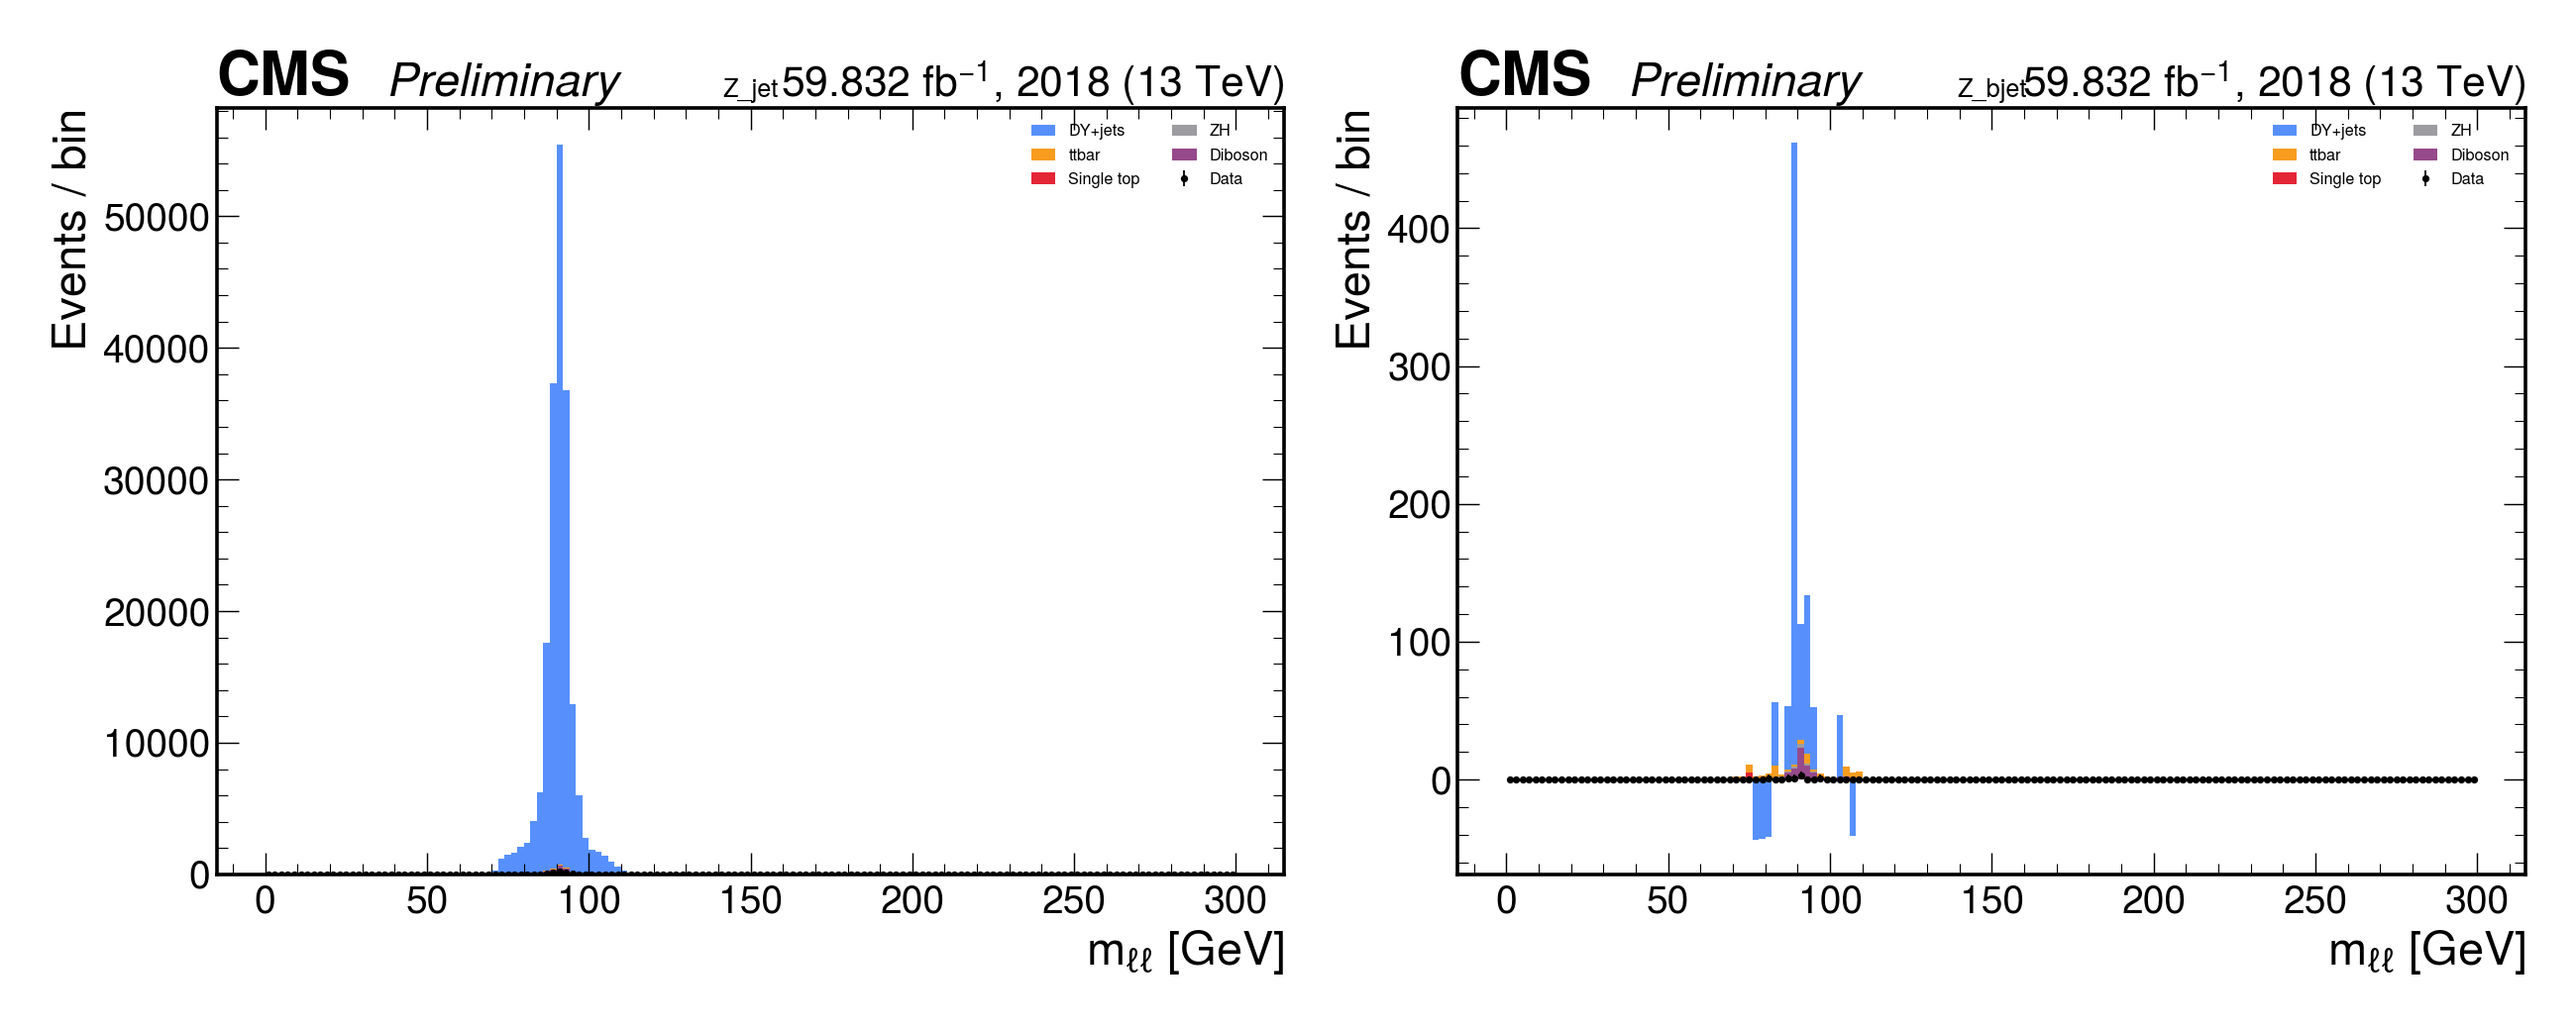
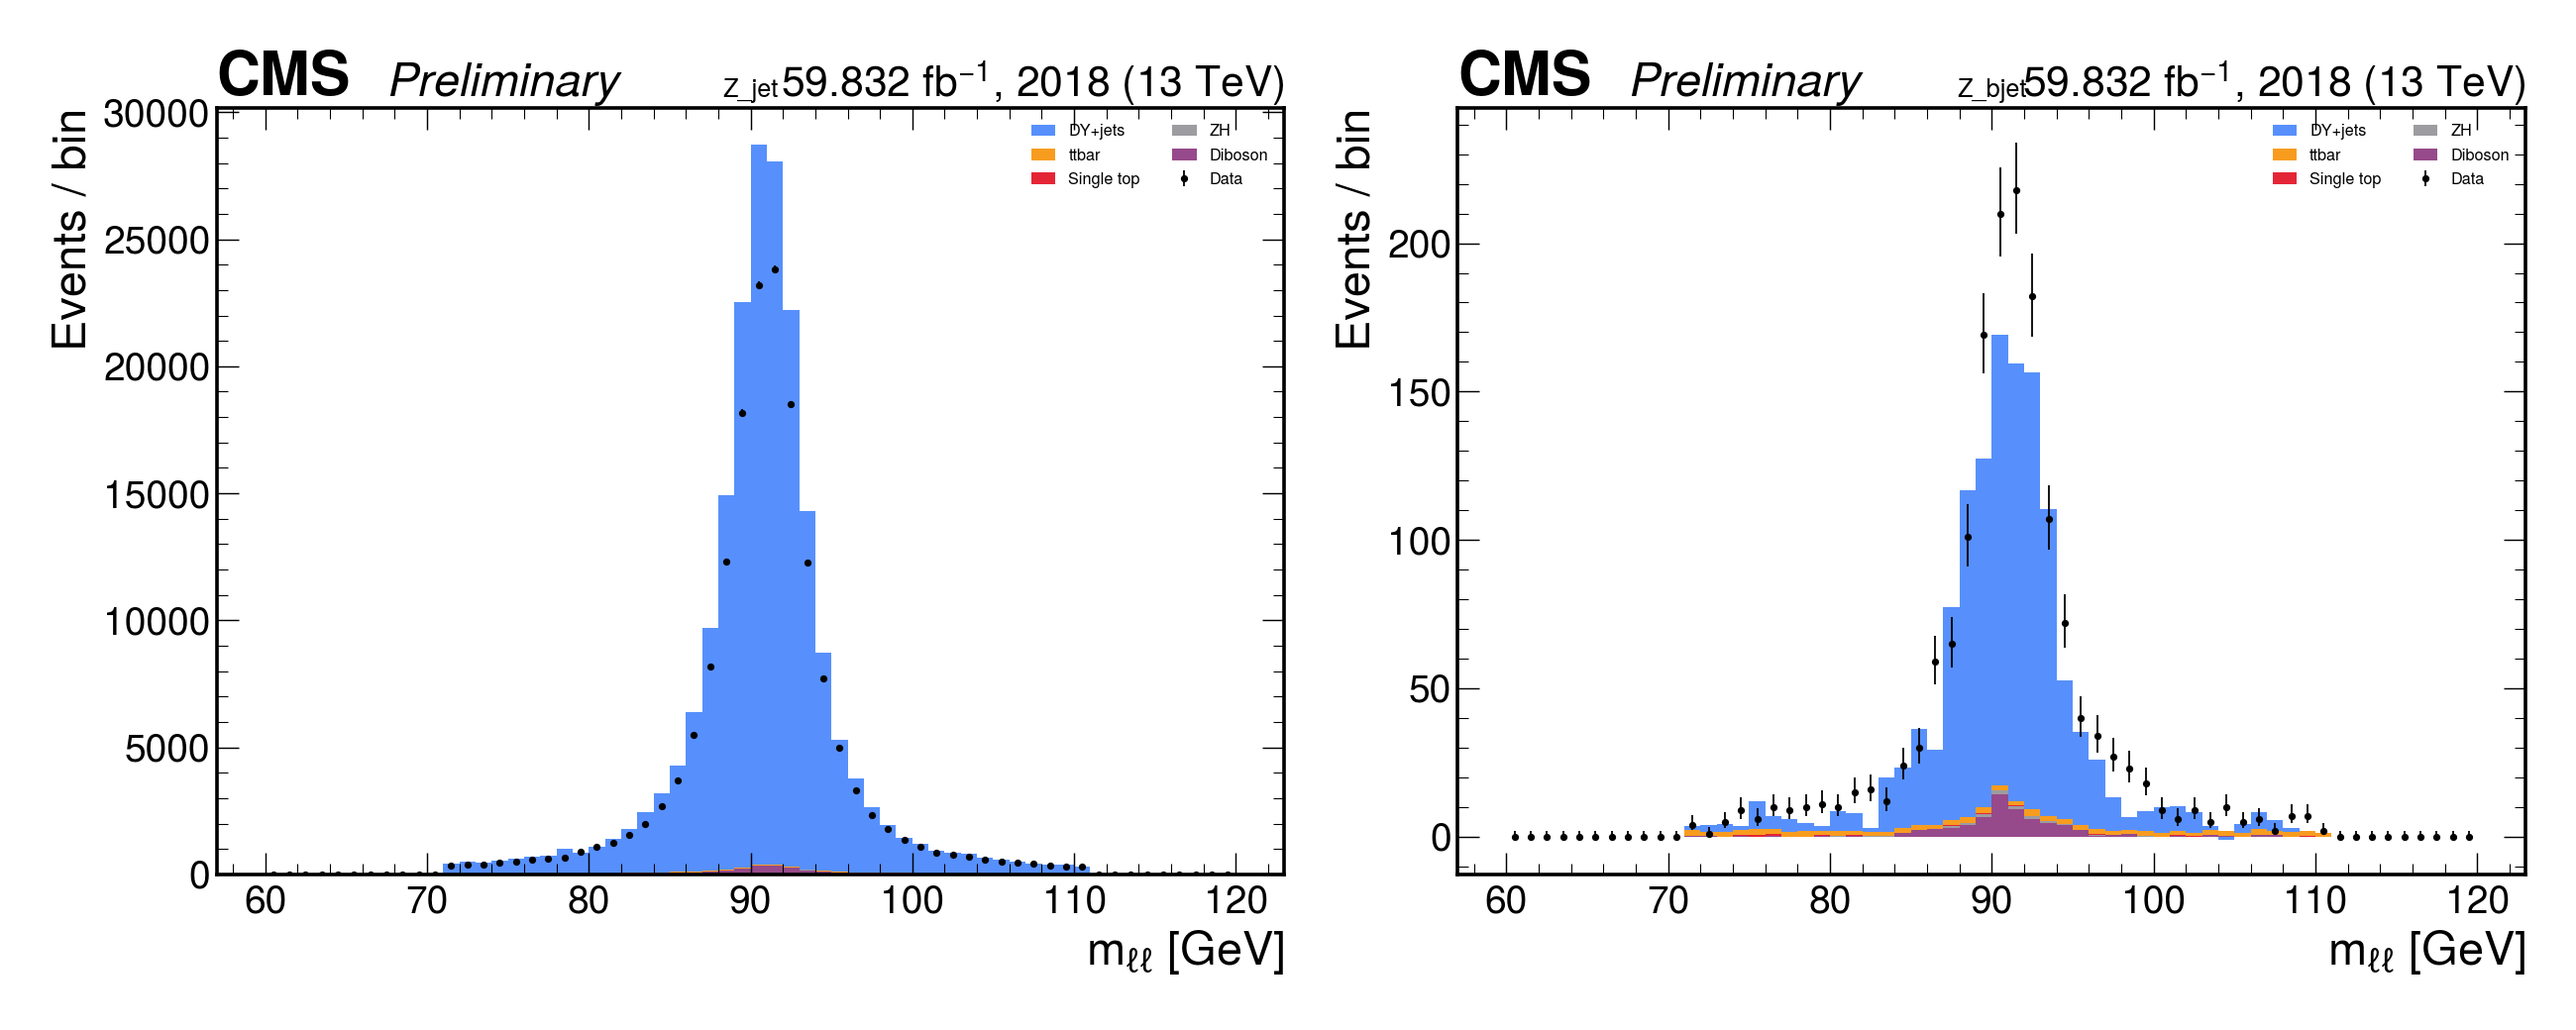
Split QCD_sf full-scale run into per-dataset condor jobs, complete all 16
Restructured the 16-dataset LPC condor run from one combined job into
independent per-dataset jobs (via runner.py's existing --only flag) so a
single dataset's failure can't take down the rest, per Hsin-Wei's
suggestion. Added submit_qcd_sf_per_dataset.sh (sequential per-dataset
submission wrapper) and merge_qcd_sf_outputs.py (combines the per-dataset
.coffea outputs into the single file plot_stack_sample.py expects).

13/14 remaining datasets succeeded on the first pass; DYJetsToLL_0J,
DYJetsToLL_1J, and TTToSemiLeptonic hit the same dask/lpcjobqueue
deadlock seen before (now confirmed to recur even at single-dataset
scale) but were cleanly isolated and retried without affecting the other
jobs. All 16 datasets now complete and merged; regenerated stacked plots
confirm physically sane behavior at full statistics.

diff --git a/merge_qcd_sf_outputs.py b/merge_qcd_sf_outputs.py
@@ -1,0 +1,53 @@
+"""Merge per-dataset QCD_sf .coffea outputs into one combined file.
+
+Each `runner.py --only <dataset>` run writes a `{dataset: {histograms...}}`
+dict to its own file. Since no dataset key appears in more than one file,
+combining is a plain dict union -- no bin-level histogram addition needed.
+"""
+import argparse
+import glob
+
+from coffea.util import load, save
+
+DEFAULT_PATTERNS = [
+    "hists_QCD_sf_QCD_sf_run2018_all/hists_QCD_sf_QCD_sf_run2018_all_*.coffea",
+    "hists_DY2J_condor_rebin/hists_QCD_sf_QCD_sf_run2018_DY2J/hists_QCD_sf_QCD_sf_run2018_DY2J.coffea",
+]
+DEFAULT_OUTPUT = "hists_QCD_sf_QCD_sf_run2018_all/hists_QCD_sf_QCD_sf_run2018_all.coffea"
+
+if __name__ == "__main__":
+    parser = argparse.ArgumentParser(description=__doc__)
+    parser.add_argument("--output", default=DEFAULT_OUTPUT)
+    parser.add_argument(
+        "--pattern",
+        action="append",
+        default=None,
+        help="Glob pattern for input .coffea files; may be given multiple times. "
+        "Defaults to the per-dataset split outputs plus the DY2J validation output.",
+    )
+    args = parser.parse_args()
+    patterns = args.pattern or DEFAULT_PATTERNS
+
+    files = []
+    for pattern in patterns:
+        files.extend(sorted(glob.glob(pattern)))
+    if not files:
+        raise SystemExit(f"No input files matched patterns: {patterns}")
+
+    merged = {}
+    for f in files:
+        out = load(f)
+        overlap = set(out) & set(merged)
+        if overlap:
+            raise SystemExit(f"Dataset key(s) {overlap} appear in more than one input file "
+                              f"(offending file: {f}) -- refusing to merge, check for a "
+                              f"duplicate/re-submitted run.")
+        merged.update(out)
+        print(f"{f}: {list(out.keys())}")
+
+    print(f"\nMerged {len(files)} file(s) into {len(merged)} dataset key(s):")
+    for k in merged:
+        print(f"  {k}")
+
+    save(merged, args.output)
+    print(f"\nSaved combined output to {args.output}")

diff --git a/SESSION_NOTES.md b/SESSION_NOTES.md
@@ -1,5 +1,93 @@
 # Session notes: QCD_sf boosted Zbb — LPC condor scale-up
 
+## STATUS AS OF 2026-09-07 03:00 CDT, READ THIS FIRST — full 16-dataset run COMPLETE via per-dataset split
+
+**TL;DR**: Following a suggestion from Hsin-Wei, restructured the full-scale
+submission from one combined 16-dataset job into 16 independent per-dataset
+condor jobs, run sequentially. Result: **all 16 datasets now complete and
+merged**, full-statistics stacked plots regenerated and look physically
+sane. This is the successful conclusion of the multi-day scale-up effort
+described below.
+
+**Mechanism**: no new metadata files or code changes needed. `runner.py`
+already has an `--only <dataset>` flag (existed already, just unused for
+this purpose before) that filters the existing combined
+`metadata/QCD_sf_run2018_all.json` down to one dataset *before*
+validation touches any files — so each `--only` invocation is a fully
+independent job (own dask cluster, own condor jobs, own `.coffea` output
+`hists_QCD_sf_QCD_sf_run2018_all/hists_QCD_sf_QCD_sf_run2018_all_<dataset>.coffea`),
+with zero risk of one dataset's failure affecting another. New scripts
+added: `submit_qcd_sf_per_dataset.sh` (sequential wrapper, one dataset at
+a time, `--scaleout 8`, logs to `logs_qcd_sf_split/<dataset>.log` +
+running `logs_qcd_sf_split/summary.log`) and `merge_qcd_sf_outputs.py`
+(dict-unions the per-dataset `.coffea` outputs into the single combined
+file `plot_stack_sample.py` already expects — safe because each dataset
+is a disjoint top-level key in the workflow's output dict, so merging is
+a plain union, not a histogram-level sum).
+
+**Validated the mechanism first** on the smallest untested dataset (`ZZ`,
+6 files) before committing to the full run — ran clean, isolated,
+correct output.
+
+**Ran the remaining 14 datasets sequentially** (all of `all.json` except
+`DYJetsToLL_2J`, already validated 2026-09-01). Result: **13/14 succeeded
+cleanly** on the first pass (`WZ`, `ST_s-channel`, `ST_tW_antitop`,
+`ZH_HToBB`, `WW`, `ST_tW_top`, `ST_t-channel_antitop`, `ST_t-channel_top`,
+`TTTo2L2Nu`, `SingleMuon_Run2018`, `EGamma_Run2018` — plus `ZZ` from the
+validation step). **3 hit the same dask/lpcjobqueue deadlock described
+below** (`DYJetsToLL_0J`, `DYJetsToLL_1J`, `TTToSemiLeptonic` — each
+stuck at 98-99% with driver+worker CPU time frozen, confirmed via the
+same `condor_ssh_to_job` CPU-time-before/after-a-wait method used to
+diagnose attempt 6). Each was killed cleanly with `SIGINT` (same clean
+teardown behavior as before — condor jobs cleared, no `condor_rm`
+needed) and **did not affect the other datasets already running/queued**
+— exactly the resilience the restructuring was meant to provide. This is
+useful new information: the deadlock is real and can recur even at
+much smaller per-dataset scale (not just the old full 16-dataset combined
+run), so it's some kind of dask/lpcjobqueue-level issue, not something
+tied to combined-run scale specifically. Root cause of the deadlock
+itself is still not understood (see "Next steps" further below — the
+dashboard-enabling suggestion from the original investigation was never
+acted on).
+
+**All 3 retried individually afterward** — all 3 succeeded on the second
+attempt (`DYJetsToLL_0J` in 10min, `DYJetsToLL_1J` in 14min,
+`TTToSemiLeptonic` in 76min — no deadlock recurrence on retry).
+
+**Merge**: `merge_qcd_sf_outputs.py` initially only found 15/16 (missed
+`DYJetsToLL_2J` — its default search pattern pointed at a path that
+didn't actually exist). Found the correct file among several stale
+candidates left over from earlier sessions
+(`hists_DY2J_condor_rebin/hists_QCD_sf_QCD_sf_run2018_DY2J/hists_QCD_sf_QCD_sf_run2018_DY2J.coffea`
+— verified as the correct one via cutflow total events matching the
+documented 44,484,852 exactly, and via histogram binning matching
+today's fresh outputs, since it postdates the 2026-09-01 rebin commit
+`8b39021` while the other DY2J candidates lying around predate it or are
+small sanity-test runs). Fixed the script's default pattern to this path.
+Final merge: **16/16 dataset keys**, all with non-trivial, proportionally
+sensible statistics (3.2M events for `ZZ` up to 1.38B for `EGamma_Run2018`).
+
+**Plots regenerated** via the existing `plot_stack_sample.py` (no changes
+needed — already pointed at the correct combined output path). All three
+plot sets look physically sane at full statistics:
+`qcd_sf_2018_sample_stack.png` (Z-candidate mass, sharp ~90 GeV peak in
+both `Z_jet`/`Z_bjet` regions), `qcd_sf_2018_sample_stack2.png` (leading
+AK8 jet pT falling spectrum from the 200 GeV cut, ParticleNetMD Xbb score
+piling near 0 as expected for DY+jets background),
+`qcd_sf_2018_sample_stack_by_channel.png` (Zee vs Zmm both healthy and
+non-empty, confirming the 2026-09-01 Zmm mass-window bug fix holds at
+full scale).
+
+**Not yet done**: none of this session's new files
+(`submit_qcd_sf_per_dataset.sh`, `merge_qcd_sf_outputs.py`, this note
+update) or the new plots have been committed/pushed to `myfork` yet.
+
+**Next steps**: commit/push; decide what to share with Hsin-Wei (the
+successful per-dataset restructuring result, and the still-unresolved
+dask deadlock as a known recurring issue worth further investigation per
+the original attempt-6 root-cause notes below — dashboards were never
+enabled to see *why* it deadlocks).
+
 Working with senior postdoc Hsin-Wei Hsia (GitHub: hsinweihsia) on her
 boosted Z(bb)+jet analysis, `QCD_sf` workflow, built on BTVNanoCommissioning.
 
